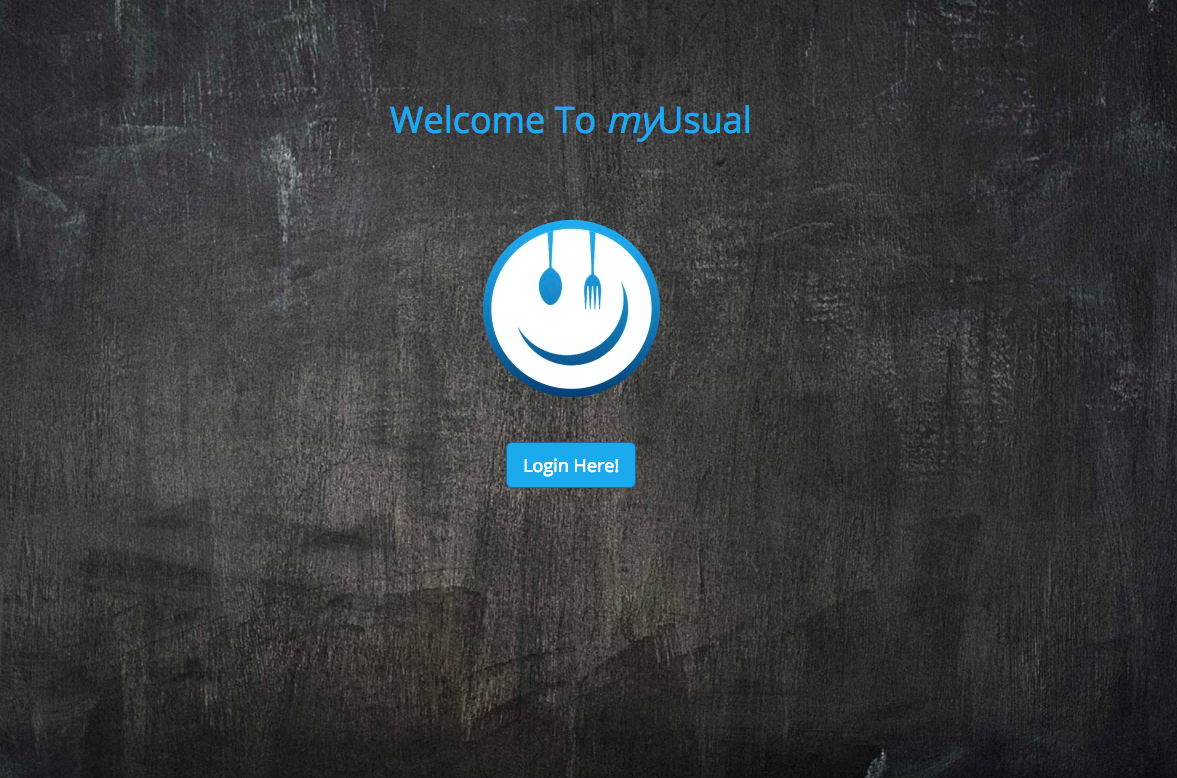
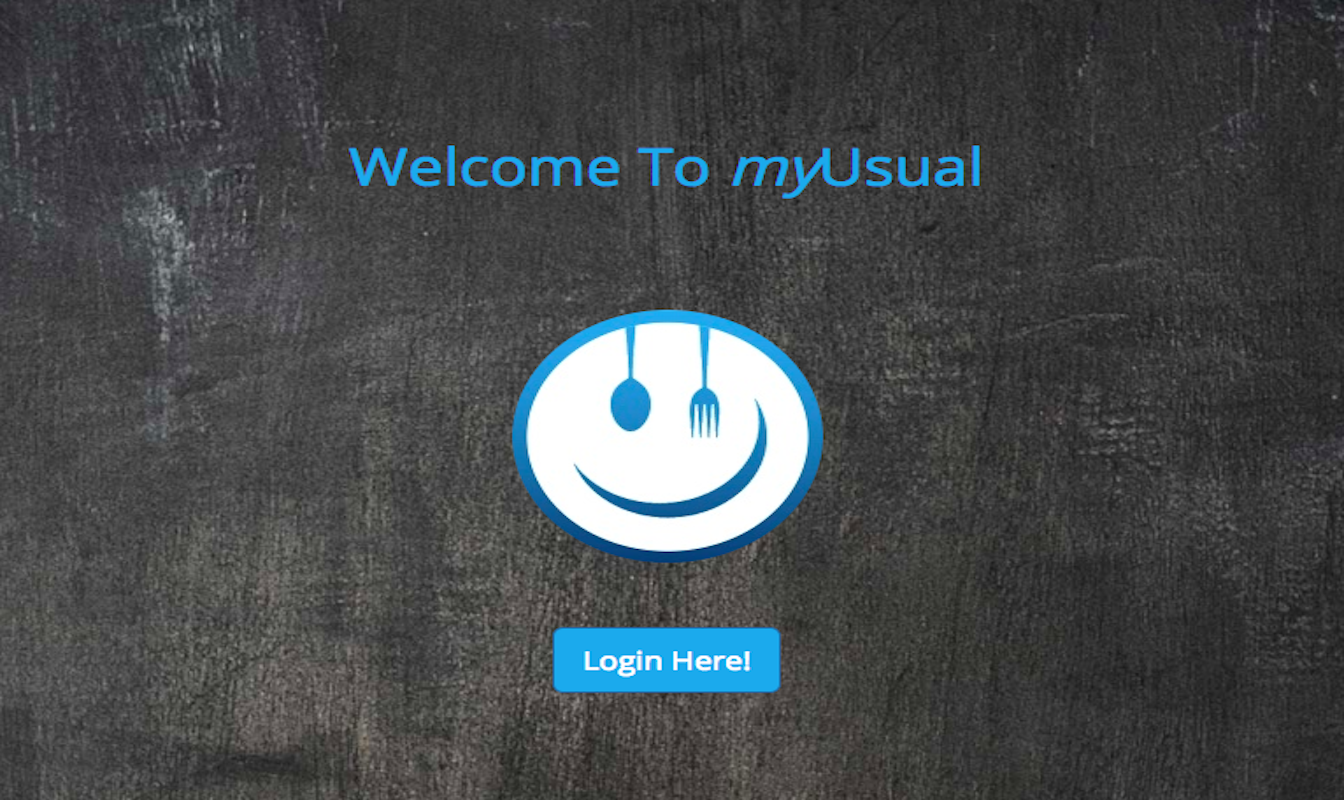
fixed modal opening issue, filled out info for myUsual and resized previews to match chucknorris

diff --git a/index.html b/index.html
@@ -201,7 +201,7 @@
                                 <i class="fa fa-plus fa-3x"></i>
                             </div>
                         </div>
-                        <img src="img/portfolio/roundicons.png" class="img-responsive" alt="">
+                        <img src="img/portfolio/myusual.png" class="img-responsive" alt="">
                     </a>
                     <div class="portfolio-caption">
                         <h4>Round Icons</h4>
@@ -329,14 +329,22 @@
                         <div class="col-lg-8 col-lg-offset-2">
                             <div class="modal-body">
                                 <!-- Project Details Go Here -->
-                                <div class="modal-body">
-                                  <h2>myUsual</h2>
-                                  <p class="item-intro text-muted">List Sharing</p>
-                                  <img class="img-responsive img-centered" src="img/portfolio/myusual.png" alt="">
-                                  <p>ScoreKeepr is primarily an app for keeping score in Spades.  It also has functionality for keeping score in Ping Pong or any other game for up to 6 players whose scores increment or decrement by 1. This app was built on React Native.</p>
-                                  <p><a href="http://www.nathanjensby.com/myUsual-Front" target="_blank">Launch</a></p>
-                                  <p><a target="_blank" href="#"><i class="fa fa-github fa-3x"></i></a></p>
-                                  <button type="button" class="btn btn-primary" data-dismiss="modal"><i class="fa fa-times"></i> Close Project</button>
+                                <h2>myUsual</h2>
+                                <p class="item-intro text-muted">list sharing</p>
+                                <img class="img-responsive img-centered" src="img/portfolio/myusual.png" alt="">
+                                <p>Everyone has grocery lists. Whether it be generic grocery lists, preferred foods/drinks lists, or special occasions lists...Everyone makes them.</p>
+                                <p>Say you're going to grab items that are on your friend's list. But what if they forgot something on that list, wanted to change the list, or simply wanted to create a list on the fly while they're driving home from work? This can easily turn into a horrid and convoluted experience. No one wants to deal with multiple texts, notes, emails, etc of obtaining those changes or creations.</p>
+                                <p>That's where myUsual simplifies your life. myUsual is THE sleek and simple way of creating, editing, and most importantly, sharing YOUR USUAL items and lists.</p>
+                                <p>Made with Auth0, Express.js, Heroku, MongoDB, and Node.js</p>
+                                    <!-- <strong>Want these icons in this portfolio item sample?</strong>You can download 60 of them for free, courtesy of <a href="https://getdpd.com/cart/hoplink/18076?referrer=bvbo4kax5k8ogc">RoundIcons.com</a>, or you can purchase the 1500 icon set <a href="https://getdpd.com/cart/hoplink/18076?referrer=bvbo4kax5k8ogc">here</a>.</p>
+                                <ul class="list-inline">
+                                    <li>Date: July 2014</li>
+                                    <li>Client: Round Icons</li>
+                                    <li>Category: Graphic Design</li>
+                                </ul> -->
+                                <p><a href="http://www.nathanjensby.com/myUsual-Front/" target="_blank">Launch</a></p>
+                                <p><a target="_blank" href="https://github.com/nathanjensby/myUsual-Front"><i class="fa fa-github fa-3x"></i></a></p>
+                                <button type="button" class="btn btn-primary" data-dismiss="modal"><i class="fa fa-times"></i> Close Project</button>
                             </div>
                         </div>
                     </div>
@@ -363,7 +371,7 @@
                               <p class="item-intro text-muted">a mobile app</p>
                               <img class="img-responsive img-centered" src="img/portfolio/scorekeeprsplash.png" alt="">
                               <p>ScoreKeepr is primarily an app for keeping score in Spades.  It also has functionality for keeping score in Ping Pong or any other game for up to 6 players whose scores increment or decrement by 1. This app was built on React Native.</p>
-                              <p><a href="#" target="_blank">Launch</a></p>
+                              <!-- <p><a href="#" target="_blank">Launch</a></p> -->
                               <p><a target="_blank" href="https://github.com/nathanjensby/scorekeepr"><i class="fa fa-github fa-3x"></i></a></p>
                               <button type="button" class="btn btn-primary" data-dismiss="modal"><i class="fa fa-times"></i> Close Project</button>
                             </div>
